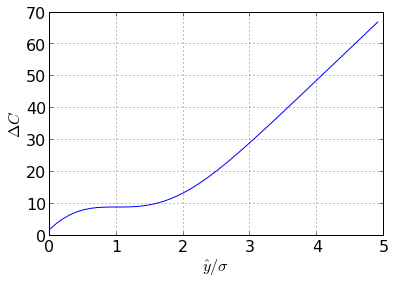
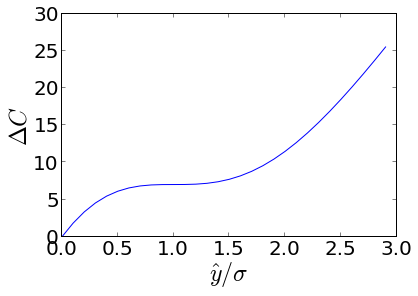
figures, P/A logic

diff --git a/2013-rss-costmaps/gaussian.tex b/2013-rss-costmaps/gaussian.tex
@@ -1,6 +1,6 @@
 \subsection{Typical Behavior}
 
-The previous section asserted that, whatever the model parameters, optimal paths conform to a bracket shape. One might suppose that increasing the width of the obstacle $\sigma$ or the relative cost $A/P$ causes $\yhat$ to increase commensurately, giving the obstacle a wider and wider berth. This dependence is observed for large $\yhat$, but when parameters are tuned to draw the optimal path closer to the origin, it undergoes a discontinuous jump from a finite bracket to the direct path ($\yhat=0$). As an example, consider the path in Figure \ref{fig:gaussian}. When $A/P=?/55$, a long walk around is cheap compared to treading on the origin, and the closest approach $\yhat$=16. (In this simulation, the other parameters were fixed arbitrarily at $n=?$ and $\sigma$=?.) However, when the baseline cost is dialed back such that $A/P=?/56$, the path jumps discontinuously through the origin ($\yhat=0$). Intermediate paths are not cost-effective: at a certain point, what we save by avoiding the dead center is not worth the extra steps.
+The previous section asserted that, whatever the model parameters, optimal paths conform to a bracket shape. One might suppose that increasing the width of the obstacle $\sigma$ or the relative cost $A/P$ causes $\yhat$ to increase gradually, giving the obstacle a wider and wider berth. This dependence is observed for large $\yhat$, but when parameters are tuned to draw the optimal path closer to the origin, it undergoes a discontinuous jump from a finite bracket to the direct path ($\yhat=0$). As an example, consider the path in Figure \ref{fig:gaussian}. When $A/P=98/55$, a long walk around is cheap compared to treading on the origin, and the closest approach $\yhat=0.16\sigma$. However, when the baseline cost is dialed back such that $A/P=98/56$, the path jumps discontinuously through the origin ($\yhat=0$). Intermediate paths are not cost-effective: at a certain point, what we save by avoiding the dead center is not worth the extra steps.
 
 \begin{figure}
 \includegraphics[width=\columnwidth]{graphix/Gaussian.png}
@@ -69,34 +69,31 @@ Now, we locate the $\yhat$ that minimize $\Delta C$.
 \label{fig:lambert}
 \end{figure}
 
-The solution for $\yhat$ is related to the Lambert W-function, which is cannot be written in closed form.  Depending on the cost ratio $P/A$, it can admit 0, 1 or 2 solutions, illustrated in Figure \ref{fig:lambert}. We can make several observations.
+The solution for $\yhat$ is related to the Lambert W-function, which is cannot be written in closed form.  Depending on the cost ratio $P/A$, it admits 0, 1 or 2 solutions, illustrated in Figure \ref{fig:lambert}. We can make several observations. See Figure \ref{fig:globfig}.
 \begin{enumerate}
 \item Eq. \ref{eq:PA} peaks when $\yhat/\sigma = 1$, attaining $P/A=\sqrt{\pi/2e}$. If we set $P$ and $A$ such that $P/A > \sqrt{\pi/2e} \approx 0.760$, there is no solution to Eq. \ref{eq:PA}, and the only minimum of $\Delta C$ occurs on the boundary at $\yhat=0$. The direct path is optimal.
+\item The inflection point that forms $P/A = \sqrt{\pi/2e}$ grows into a local minimum as $P/A$ is dialed down. Below $P/A \approx 0.56553$, which was determined numerically, the local minimum becomes the global minimum. The obstacle is avoided.
 \item When $P=0$, $\Delta C$ has a minimum at infinity. We require a finite baseline cost to keep the solution from running to $y \rightarrow \infty$ before traversing $x$.
-\end{enumerate}
-\begin{enumerate}
-\item Two critical points are necessary for there to be a finite $\yhat>0$, as seen in Figure \ref{fig:twosolutions}. 
-\item It is not sufficient to have two critical points to cause a finite $\yhat>0$, since the minimum may not have a negative value, meaning that the optimal path will be at $\yhat=0$. Similar scenario occurs when there is only one critical point as in Figure \ref{fig:inflection}. 
-\item If there are no critical points as in Figures \ref{fig:zero} and \ref{fig:infinity}, then the extrema must be at the limits. If $P>0$, you end up with a positive slope like in Figure \ref{fig:zero} and the optimal minimum cost path is at $\yhat=0$. If $P=0$, then you get a negative slope and the minimum value is at $\yhat=\infty$. This follows the intuition where if $P$ is very high, then the straight path is optimal, and if $P=0$, the path length does not matter and the path can be arbitrarily far away. 
 \end{enumerate}
 
 \begin{figure}[t]
 \centering
-\subfloat[Two Critical Points: $\yhat>0$]{
-\includegraphics[width=0.4\columnwidth]{graphix/twosolutions.png}
-\label{fig:twosolutions}}
+
+\subfloat[$P/A = \sqrt{\pi/2e}$: The direct path $\yhat=0$ minimizes $\Delta C$. A plateu is forming.]{
+\includegraphics[width=0.4\columnwidth]{graphix/Dan_1.png}
+\label{fig:Dan_1}}
 \qquad
-\subfloat[One Critical Point: $\yhat=0$]{
-\includegraphics[width=0.4\columnwidth]{graphix/inflection.png}
-\label{fig:inflection}}\\
-\subfloat[No Critical Points: $\yhat=0$]{
-\includegraphics[width=0.4\columnwidth]{graphix/zero.png}
-\label{fig:zero}}
+\subfloat[$P/A = 0.56552$: A new global minimum is established at $\yhat > 0$.]{
+\includegraphics[width=0.4\columnwidth]{graphix/Dan_3.png}
+\label{fig:Dan_3}}\\
+\subfloat[$P/A < 0.56552$. $\yhat$ moves farther from the origin, and the minimum grows deeper.]{
+\includegraphics[width=0.4\columnwidth]{graphix/Dan_2.png}
+\label{fig:Dan_4}}
 \qquad
-\subfloat[No Critical Points, $P=0$: $\yhat=\infty$]{
-\includegraphics[width=0.4\columnwidth]{graphix/infinity.png}
-\label{fig:infinity}}
-\caption{Gaussian Relative Costs (y-axis) over different passing distances. Minimum cost/optimal path marked with a star. In (a), the optimum passing distance is at a finite $\yhat>0$. In (b) and (c) the optimum is at $\yhat=0$. In (d), the optimum is as far away as possible. }
+\subfloat[$P=0$, and the global minimum is at $\yhat \rightarrow \infty$.]{
+\includegraphics[width=0.4\columnwidth]{graphix/Dan_2.png}
+\label{fig:Dan_2}}
+\caption{Cost $\Delta C$ relative to the cost of the direct path, as a function of ratio of the baseline cost-per-step $P$ and the amplitude $A$ of a Gaussian obstacle.}
 \label{fig:globfig}
 \end{figure}
 
